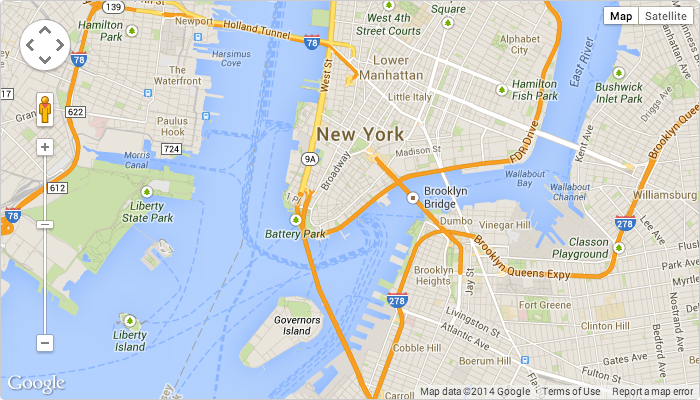
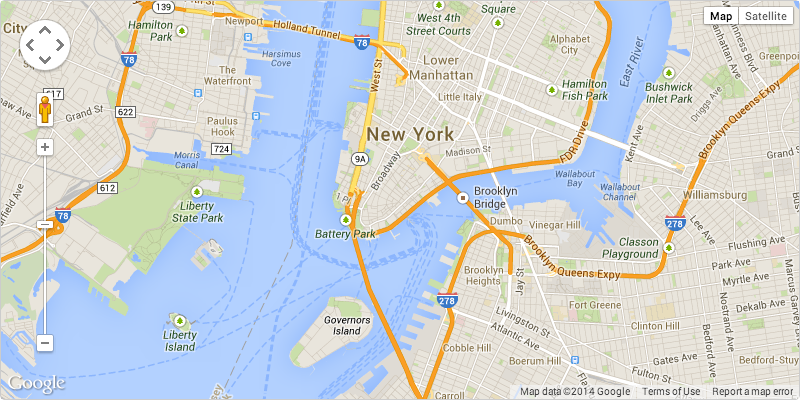
minor changes to css spacing; renames repo to tripstacker

diff --git a/views/layout.html b/views/layout.html
@@ -27,7 +27,7 @@
 		<!-- body -->
 		<div class="row">
 			<!-- day tabs -->
-			<div class="col-md-5">
+			<div class="col-md-4 offset1 day-control-panel">
 				<div class="btn-group">
 					<button type="button" class="btn btn-primary">Day 1</button>
 					<button type="button" class="btn btn-default">Day 2</button>
@@ -39,7 +39,8 @@
 			<!-- dropdowns -->
 			<div class="col-md-7">
 				<ul class="list-inline">
-					<li><h3>Hotels</h3><br>
+					<li class="add-itinerary">
+						<p class="itinerary-title">Hotels</p>
 						<!-- dropdown button -->
 						<div class="btn-group">
 						<button type="button" class="btn btn-default dropdown-toggle" data-toggle="dropdown">
@@ -57,7 +58,8 @@
 						<button type="button" class="btn btn-primary">Add</li>
 					</li>
 
-					<li><h4>Things To Do</h4><br>
+					<li class="itinerary-dropdown">
+						<p class="itinerary-title">Things To Do</p>
 						<!-- dropdown button -->
 						<div class="btn-group">
 						<button type="button" class="btn btn-default dropdown-toggle" data-toggle="dropdown">
@@ -75,7 +77,8 @@
 						<button type="button" class="btn btn-primary">Add</li>
 					</li>
 
-					<li><h3>Restaurants</h3><br>
+					<li class="add-itinerary">
+						<p class="itinerary-title">Restaurants</p>
 						<!-- dropdown button -->
 						<div class="btn-group">
 						<button type="button" class="btn btn-default dropdown-toggle" data-toggle="dropdown">
@@ -98,7 +101,7 @@
 
 		<div class="row">
 			<!-- 2nd row, 1st column (itinerary) -->
-			<div class="col-md-4">
+			<div class="col-md-3 offset1">
 				<div class="plan for day#">
 					<h2>Plan for Day 1</h2>
 					<ul>
@@ -113,6 +116,7 @@
 			<div class="col-md-8">
 			{% block show_map %}{% endblock %}
 			</div>
+		</div>
 
 			<!-- footer -->
 			<div class="footer">
@@ -131,5 +135,6 @@
 		<script src="https://maps.googleapis.com/maps/api/js?key=AIzaSyAGnSdrJkCeXLMMW58EzR_uKzi9LLxJ2lo&sensor=true"></script>
 		<script type="text/javascript" src="/js/google_maps.js"></script>
 		<!-- ========================================================== -->
+
 	</body>
 </html>

diff --git a/views/index.html b/views/index.html
@@ -1,17 +1,13 @@
 <!-- index.html -->
 {% extends "layout.html" %}
 
-
-
 {% block title %}TripStacker{% endblock %}
 
-
-{% block show_map %}
-<div id="map-canvas"></div>
-{% endblock %}
+{% block show_map %}<div id="map-canvas"></div>{% endblock %}
 
 
-
+<!-- Add the following code on the bottom of your index.html view file to make your JSON data available as JavaScript arrays on your page: -->
+<script>
 
 {% autoescape false %}
 var all_hotels = {{ hotels | json }};
@@ -20,4 +16,4 @@ var all_things_to_do = {{ things_to_do | json }};
 
 {% endautoescape %}
 
-</script> -->
+</script>

diff --git a/public/stylesheets/custom.css b/public/stylesheets/custom.css
@@ -3,14 +3,35 @@ body {
 }
 
 .row {
-	margin-top: 20px;
+	margin: 10px 0 0 0;
 }
+
+.day-control-panel {
+	margin: 12px 0 0 0;
+}
+
 #map-canvas {
-	width: 700px;
+	width: 800px;
 	height: 400px;
 	background-image: url("/images/faker.png"););
   border: 1px solid #ccc;
   border-radius: 5px;
+}
+
+.offset1 {
+	margin-left: 20px;
+}
+
+.itinerary-dropdown {
+	margin: 0px 60px;
+	padding: 0 0 0 0;
+}
+
+.itinerary-title {
+	font-size: 24px;
+	font-weight: 450;
+	margin: 5px 0 0 0;
+	padding: 0 0 0 0;
 }
 
 .footer {

diff --git a/app.js b/app.js
@@ -37,6 +37,7 @@ app.use(
   })
 );
 app.use(express.static(path.join(__dirname, 'public')));
+// STATIC finds a file in a "static" marked directory, it will serve that instead of continuing down the middleware stack.
 app.use('/bower_components', express.static(__dirname + '/bower_components'));
 
 // development only

diff --git a/routes/index.js b/routes/index.js
@@ -4,6 +4,8 @@
  */
 
 var models = require('../models');
+
+// Setup your routes.index to be something like this (you'll need all three data types from Mongoose):
 exports.index = function(req, res){
   models.Hotel.find(function(err, results) {
     res.render('index', { hotels: results });
